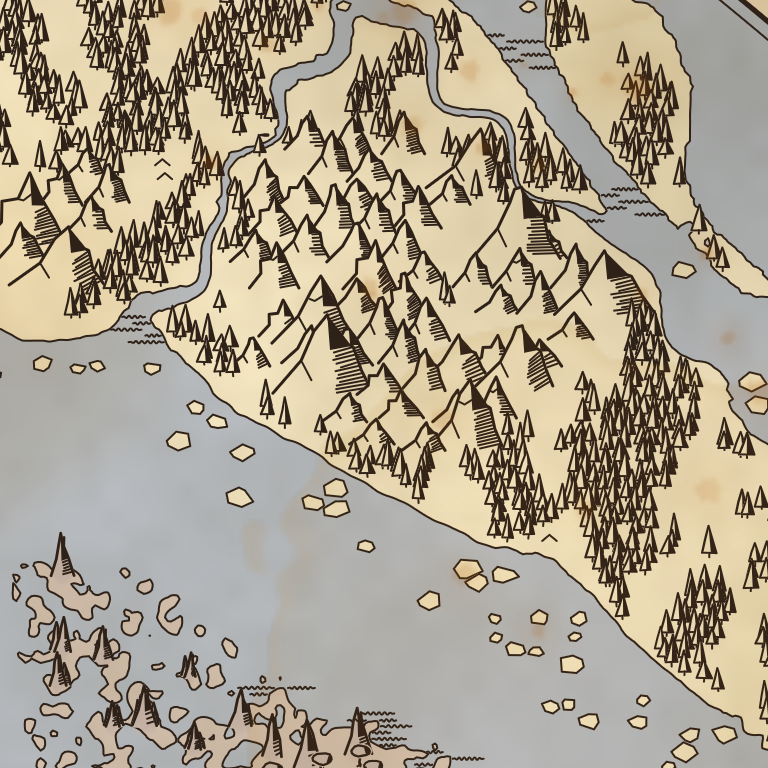
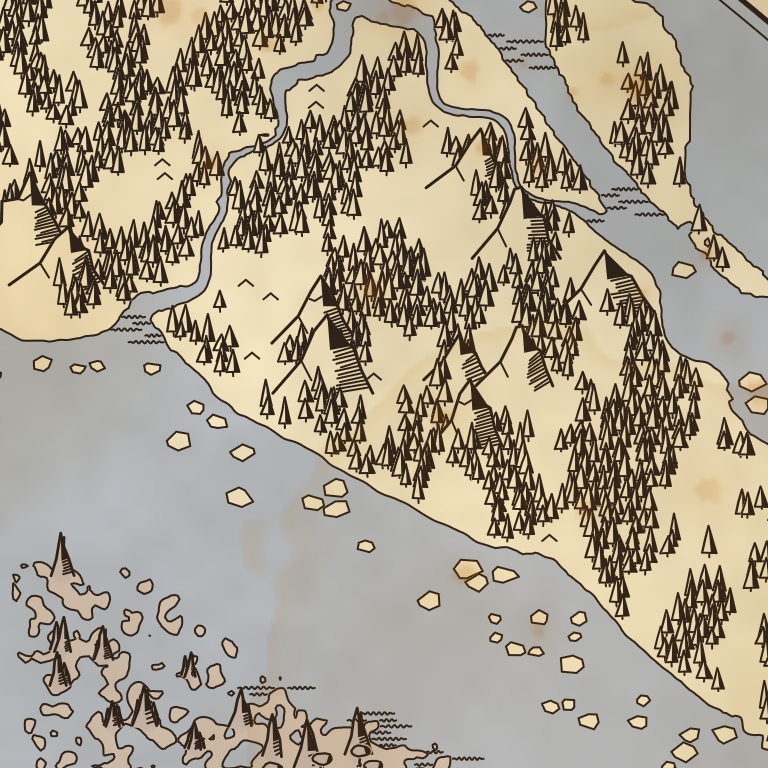
Draw the Deep North's high ground as uplands, not ranges
GetDeepNorthHeight has none of the Mountains' doubling, ridge noise or
roughness: only 6-11% of Deep North ground over 45 m is steeper than 30
degrees, and every Deep North tree grows at any height. The atlas filled
all of that ground (16-20% of the biome) with filler peaks and cut the
woods there. Now a real summit gets a peak and the other hilltops get
hills, the snow forests run uphill, and the ice-ridge chevrons keep off
only those summits and hilltops, found once per world from the heights
so the sheet and close-ups agree. Sheet cache version 18.

Changed region(s): [[0.3125, 0.125, 0.8125, 0.625], [0.0, 0.1875, 0.1875, 0.4062], [0.0312, 0.0, 0.0625, 0.0312]]

diff --git a/src/Ink/InkPainter.cs b/src/Ink/InkPainter.cs
@@ -238,8 +238,12 @@ namespace Atlas
 
         // Terrain thresholds: metres above the water and height change per metre of slope.
         private const float PeakHeight = 50f;
-        // Deep North ground this high carries peaks; its woods stop below it (Woods.Build).
-        public const float DeepNorthPeakHeight = 45f;
+        // Deep North ground this high carries a peak on a real summit and hills on its other
+        // hilltops. The game's Deep North rises in gentle uplands (GetDeepNorthHeight has none of
+        // the Mountains' doubling, ridge noise or roughness; only 6-11% of its ground over 45 m is
+        // steeper than 30 degrees, against 55% of the Mountains' over 50 m) and its snow forests
+        // grow up them, so it gets no filler peaks and its woods run uphill.
+        private const float DeepNorthSummitHeight = 45f;
         // Summits and hilltops: a map pixel (12 m) is a summit when it is the highest within
         // SummitCells and rises SummitProminence metres above the lowest point within
         // ProminenceCells; hilltops likewise with smaller numbers. Filler peaks mass round a
@@ -1657,7 +1661,7 @@ namespace Atlas
             float ridgeStep = 8f * m_g;
             Scatter(ridgeStep, 15, s =>
             {
-                if (!IsOpenLand(s, Land.DeepNorth, RidgeShore) || s.m_above >= DeepNorthPeakHeight) return;
+                if (!IsOpenLand(s, Land.DeepNorth, RidgeShore)) return;
                 if (!IsRidge(s.m_x, s.m_y) || !(s.m_roll < 0.8f)) return;
                 if (RidgeCrowded(s, ridgeStep) || NearHighGround(s.m_x, s.m_y)) return;
                 m_canvas.Stroke(s.m_x - 2.4f * m_g, s.m_y, s.m_x, s.m_y - 2f * m_g, Pen);
@@ -1893,7 +1897,9 @@ namespace Atlas
 
         // Whether high ground that carries peaks lies where one of them could stand over or beside
         // a mark at (x, y): a peak rises north of its foot, so the search reaches far south and only
-        // a little north. Read from the world's own heights, the same on the sheet and every tile.
+        // a little north. Mountain ground over PeakHeight is massed with peaks; in the Deep North
+        // only its summits and hilltops carry a glyph (NorthTops). Read from the world's own
+        // heights, the same on the sheet and every tile.
         private bool NearHighGround(float x, float y)
         {
             for (float dy = -3f * G; dy <= 22f * G; dy += 2.5f * G)
@@ -1902,12 +1908,41 @@ namespace Atlas
                 {
                     float wx = (x + dx) * MetresPerPixel - HalfExtent, wz = HalfExtent - (y + dy) * MetresPerPixel;
                     float above = m_world.HeightAt(wx, wz) - m_world.m_waterLevel;
-                    if (above < DeepNorthPeakHeight) continue;
-                    Land land = m_world.m_biome[m_world.Index(wx, wz)];
-                    if ((land == Land.Mountain && above >= PeakHeight) || land == Land.DeepNorth) return true;
+                    if (above >= PeakHeight && m_world.m_biome[m_world.Index(wx, wz)] == Land.Mountain) return true;
                 }
             }
+            foreach (Vector2 top in NorthTops())
+            {
+                float dx = top.x - x, dy = top.y - y;
+                if (dx >= -13f * G && dx <= 13f * G && dy >= -3f * G && dy <= 22f * G) return true;
+            }
             return false;
+        }
+
+        // The Deep North's summits and hilltops over DeepNorthSummitHeight (sheet canvas points),
+        // where PlaceSummitsAndHills may stand a peak or a hill, found once per world from its
+        // heights and shared by the sheet and every close-up (WorldSource.m_northTops). Ground
+        // fills are drawn before the glyphs are placed, so they cannot look at the glyphs.
+        private List<Vector2> NorthTops()
+        {
+            lock (m_world)
+            {
+                if (m_world.m_northTops != null) return m_world.m_northTops;
+                var tops = new List<Vector2>();
+                int size = m_world.m_size;
+                float[] h = m_world.m_height;
+                for (int z = ProminenceCells; z < size - ProminenceCells; z++)
+                    for (int x = ProminenceCells; x < size - ProminenceCells; x++)
+                    {
+                        int i = z * size + x;
+                        if (m_world.m_biome[i] != Land.DeepNorth || h[i] - m_world.m_waterLevel < DeepNorthSummitHeight) continue;
+                        if (!IsHighest(h, size, x, z, HilltopCells) || h[i] - Lowest(h, size, x, z, ProminenceCells) < HillProminence) continue;
+                        float wx = (x - size / 2 + 0.5f) * m_world.m_pixelSize, wz = (z - size / 2 + 0.5f) * m_world.m_pixelSize;
+                        tops.Add(new Vector2((wx + HalfExtent) / MetresPerPixel, (HalfExtent - wz) / MetresPerPixel));
+                    }
+                m_world.m_northTops = tops;
+                return tops;
+            }
         }
 
         // One marsh mark of the swamp rule's grid (cell gx, gy, its square grid of spacing c with
@@ -1976,7 +2011,9 @@ namespace Atlas
                     float above = h[i] - water;
                     if (above < 3f) continue;
                     Land land = m_world.m_biome[i];
-                    bool high = (land == Land.Mountain && above >= PeakHeight) || (land == Land.DeepNorth && above >= DeepNorthPeakHeight);
+                    // The Deep North's uplands: a peak on a real summit, hills on its other hilltops.
+                    bool upland = land == Land.DeepNorth && above >= DeepNorthSummitHeight;
+                    bool high = (land == Land.Mountain && above >= PeakHeight) || upland;
                     // A clear-cut is open country too: with its trees felled its rises show.
                     bool clearCut = land == Land.BlackForest && m_world.m_grove != null && m_world.m_grove[i] == Grove.ClearCut;
                     bool hillCountry = ((land == Land.Meadows || land == Land.Plains) && m_world.m_wood[i] < WoodEdge)
@@ -1988,8 +2025,15 @@ namespace Atlas
                     }
                     if (!high && !hillCountry) continue;
                     int radius = high ? SummitCells : land == Land.Meadows ? MeadowHilltopCells : HilltopCells;
-                    if (!IsHighest(h, size, x, z, radius)) continue;
-                    float prominence = h[i] - Lowest(h, size, x, z, ProminenceCells);
+                    bool highest = IsHighest(h, size, x, z, radius);
+                    float prominence = highest || upland ? h[i] - Lowest(h, size, x, z, ProminenceCells) : 0f;
+                    // An upland top that is no summit may still be a hilltop.
+                    if (upland && !(highest && prominence >= SummitProminence))
+                    {
+                        if (!IsHighest(h, size, x, z, HilltopCells)) continue;
+                        high = false;
+                    }
+                    else if (!highest) continue;
 
                     float wx = (x - size / 2 + 0.5f) * m_world.m_pixelSize;
                     float wz = (z - size / 2 + 0.5f) * m_world.m_pixelSize;
@@ -2550,13 +2594,11 @@ namespace Atlas
             PlaceSummitsAndHills();
             // Mountains between the summits: staggered rows of smaller overlapping peaks, so a range
             // still reads as one mass while its real summits stand out above it. In the Mountain
-            // biome and the high Deep North.
+            // biome only: the Deep North's uplands are gentle (DeepNorthSummitHeight).
             Scatter(16f * G, 9f * G, 0.3f, 0.5f, 21, s =>
             {
                 if (!s.m_isLand || !(s.m_roll < 0.97f)) return;
-                bool mountain = s.m_land == Land.Mountain && s.m_above >= PeakHeight;
-                bool north = s.m_land == Land.DeepNorth && s.m_above >= DeepNorthPeakHeight;
-                if (!mountain && !north) return;
+                if (s.m_land != Land.Mountain || s.m_above < PeakHeight) return;
                 float width = Mathf.Lerp(14f, 22f, Mathf.Clamp01((s.m_above - PeakHeight) / 160f)) * G;
                 if (s.m_shore < width * 0.45f || !PeakOnLand(s.m_x, s.m_y, width, PeakHeightOf(width, s.m_seed))) return;
                 if (NearSummit(s.m_x, s.m_y, width, PeakHeightOf(width, s.m_seed))) return;

diff --git a/src/Ink/WorldSampler.cs b/src/Ink/WorldSampler.cs
@@ -29,10 +29,8 @@ namespace Atlas
         private const float PlainsForest = 0.8f;
         // Every Deep North tree grows under this forest factor (ZoneSystem's vegetation from
         // _LocationList_DeepNorth: snowy firs and pines, forest threshold 0 to 1.15), though
-        // vanilla's mask marks no forest there. Its woods stop below the peaks' ground, falling
-        // by NorthHeightFall a metre towards it, so the edge lies where the sheet's does.
+        // vanilla's mask marks no forest there.
         public const float DeepNorthForest = 1.15f;
-        private const float NorthHeightFall = 0.01f;
 
         private readonly WorldGenerator m_generator;
         private readonly float m_waterLevel;
@@ -65,10 +63,7 @@ namespace Atlas
                 case Land.Plains: wood = PlainsForest - Factor(wx, wz); break;
                 // All Mistlands land is wood, as on the sheet (Woods.Build).
                 case Land.Mistlands: wood = 1f; break;
-                case Land.DeepNorth:
-                    float below = InkPainter.DeepNorthPeakHeight - (height - m_waterLevel);
-                    wood = Mathf.Min(DeepNorthForest - Factor(wx, wz), below * NorthHeightFall);
-                    break;
+                case Land.DeepNorth: wood = DeepNorthForest - Factor(wx, wz); break;
                 // The Mountains' firs follow the ground's slope (WorldSource.MarkMountainForest),
                 // which one generator sample cannot tell; worked out here on the generator's
                 // finer heights it would break the woods into the copses and clearings the sheet

diff --git a/src/Ink/Woods.cs b/src/Ink/Woods.cs
@@ -54,10 +54,8 @@ namespace Atlas
                 // The Mistlands' green is the mist area, not woods; the Yggdrasil shoots grow over
                 // all its land, most of them whatever the forest factor (ZoneSystem's vegetation).
                 else if (biome == Land.Mistlands) wood[i] = true;
-                // The Deep North's forest (WorldSource.MarkNorthForest), except on the high ground
-                // drawn as peaks, which trees keep off.
-                else if (biome == Land.DeepNorth)
-                    wood[i] = world.m_forest[i] > 127 && world.m_height[i] - water < InkPainter.DeepNorthPeakHeight;
+                // The Deep North's forest (WorldSource.MarkNorthForest), up its gentle uplands too.
+                else if (biome == Land.DeepNorth) wood[i] = world.m_forest[i] > 127;
             }
             Clean(wood, land, size, value: true, MinWood);
             Clean(wood, land, size, value: false, MinClearing);

diff --git a/src/Ink/WorldSource.cs b/src/Ink/WorldSource.cs
@@ -136,6 +136,9 @@ namespace Atlas
         // stands at 23 m and more before CreateDeepNorthGap pulls the moat under; nothing lies
         // between, so IceFloor (metres, absolute) splits them on the height over the gap.
         private const float IceFloor = 14f;
+        // The Deep North's summits and hilltops in sheet canvas points, filled once on first use
+        // by InkPainter.NorthTops (under a lock on this object).
+        public List<Vector2> m_northTops;
         private const int IceReach = 4;
         private const int SwampBlur = 3;
         // Rivers and streams from the world generator. The minimap's 12 m pixels lose the narrow

diff --git a/src/Ink/InkCache.cs b/src/Ink/InkCache.cs
@@ -18,7 +18,7 @@ namespace Atlas
     internal static class InkCache
     {
         private const int Magic = 0x534C5441; // "ATLS"
-        private const int Version = 17;
+        private const int Version = 18;
         // A file never holds more sea illustrations than this; more means it is damaged.
         private const int MostSeaMarks = 256;
         // Nor more marks of a kind (trees, glyphs, wave strokes) than this.

diff --git a/CLAUDE.md b/CLAUDE.md
@@ -867,8 +867,19 @@ Stack, build, verification and git workflow are shared by all mods: see `../CLAU
   roughly 70-115 per zone together) is `m_inForest` with forest factor 0 to 1.15, the Meadows'
   own `InForest` limit; only 5-10 small firs a zone stand at 1 to 2. So `WorldSource.MarkNorthForest`
   fills the mask's red for Deep North land where `GetForestFactor` < 1.15
-  (`GeneratorSampler.DeepNorthForest`; the factor is the same in every world), and `Woods.Build`
-  and `GeneratorSampler` keep that wood below `DeepNorthPeakHeight`, the ground drawn as peaks.
+  (`GeneratorSampler.DeepNorthForest`; the factor is the same in every world), at every height:
+  every Deep North tree takes altitude 0.2-1000 m, and the high ground is gentle uplands, not
+  mountains (`GetDeepNorthHeight` is base + 0.1 + 0.1 noise, without the Mountains' doubling,
+  ridge noise or `BaseHeightTilt` roughness; of its ground over 45 m only 6-11% is steeper than
+  30 degrees at 12 m pixels, of the Mountains' over 50 m 55%). So the Deep North gets no filler
+  peaks: over `DeepNorthSummitHeight` 45 m a real summit (the summit rule, 53-63 a world) takes a
+  peak and its other hilltops hills (`PlaceSummitsAndHills`, `HilltopCells`, `HillProminence`,
+  half a width off woods as everywhere), the user's choice over summits alone or slope-gated
+  fillers (those landed on sea cliffs and the border moat's ramp). Chevrons keep off those
+  summits and hilltops only (`NorthTops`, found once per world from its heights and kept on
+  the `WorldSource` for the sheet and every close-up, since ground fills are drawn before the
+  glyphs are placed). It used to fill all ground over 45 m (16-20% of the Deep North) with
+  peaks and cut the woods there.
   Its trees are the Black Forest's conifers (same rule, salt 24). The trees' own `maxTilt` 30 is
   not applied, as for the other biomes. `Mathf.PerlinNoise` under the factor means the offline
   harness cannot compute it: it sets `WorldSource.s_forestFactor` to Perlin's improved noise,
@@ -928,8 +939,8 @@ Stack, build, verification and git workflow are shared by all mods: see `../CLAU
   a deliberate near-blank snowfield with rare chevrons, like the classic map's northern waste,
   not snow stars, drifts, ice shards or cracked ice. Its woods (above) are the one dense mark;
   the open snow between stays blank. Chevrons keep off the shore, off the woods (`IsOpenLand`,
-  as ground fills), off any ground high enough for peaks (searched from the world's heights,
-  mostly south of the mark, since a peak rises north of its foot) and off each other (a
+  as ground fills), off the Mountains' peak ground and the Deep North's summits and hilltops
+  (searched mostly south of the mark, since a peak rises north of its foot) and off each other (a
   hash-only neighbour test like the marsh marks'), so the sheet and tiles agree. Ice floes are
   filled with the Deep North's body wash, not left showing the sea's. They lie where the game
   sets its ice (`ice1_deepnorth`, `ice_rock1_deepnorth`: Deep North vegetation only, at least

diff --git a/package/README.md b/package/README.md
@@ -62,7 +62,7 @@ Mistlands have denser woods, and bog Swamps more dead trees.
 | Plains | A stipple of dry ground, copses of small round shaded trees, rolling hills on the real hilltops, each drawn a little differently: low or round, a long ridge, a double crest or a shoulder, with or without smaller hills behind |
 | Mistlands | Woods of gnarled, broad-crowned trees over the whole land, thinner where the mist lies and sparse on the steep rock, veils of mist filling the hollows of the misty ground while the knolls stand clear, black crags on the summits and the broken ground, and small scarps with hachures falling downhill on the steep rock between them; its many small pools stay water, each with its own shore |
 | Ashlands | Burnt, ash-clouded ground stippled with cinders, thickest by the lava; red lava fields toned with fine engraved hatching; small rocky peaks; tall spikes of rock standing out of its shallow sea, each on its waterline; its warmed sea gets the bonemaw and, here and there, simmering spots (see Ocean) |
-| Deep North | A near-blank snowfield crossed by thin bands of ice ridges, woods of dense dark pines where the game grows its snowy forests, high peaks, snow-white ice floes along its shores and on its side of the deep channel at its border, where the game sets its ice (the open northern sea has none), and lakes washed a lighter blue |
+| Deep North | A near-blank snowfield crossed by thin bands of ice ridges, woods of dense dark pines where the game grows its snowy forests, up the high ground too, peaks on the real summits of its gentle uplands and hills on their other hilltops, snow-white ice floes along its shores and on its side of the deep channel at its border, where the game sets its ice (the open northern sea has none), and lakes washed a lighter blue |
 | Rivers | Wide rivers show as water between two banks; narrow rivers and streams as ink lines that taper toward their source; none cross the Ashlands, where the game carves no river beds, nor the streams running down into the Deep North, which the game never carves |
 | Sacrificial Stones | A ring of standing stones round a low altar, where you first arrived |
 

diff --git a/CHANGELOG.md b/CHANGELOG.md
@@ -29,7 +29,9 @@
   Mistlands, thinner where the mist lies and sparse on the steep rock, veils of mist filling the hollows of its misty ground, black crags, and small hatched scarps marking the steep rock between them (its many small pools kept as water), a cinder stipple, rocky peaks, hatched vermilion lava fields wherever the game lays its lava, down to small pools, rocky crags, and spikes of rock standing out of its boiling sea in the Ashlands, and a
   near-blank snowfield with ice ridges in the Deep North, kept clear of the shore, the peaks and each other.
 - The Deep North's snowy forests are drawn as woods of dense dark pines, as in the Black Forest,
-  wherever the game grows its firs and pines there; its ice ridges keep to the open snow.
+  wherever the game grows its firs and pines there, up its high ground too; its ice ridges keep
+  to the open snow. Its high ground is drawn as the gentle uplands it is: a peak on each real
+  summit and hills on its other hilltops, not whole mountain ranges.
 - Biome variants show in their woods: a felled Black Forest is drawn with stands of stumps among its hills,
   variants where the game grows fewer trees (pine and rocky Black Forests, small-tree Meadows,
   drake and fortress Mountains, lox and death Plains) get sparser woods, and those where it grows
